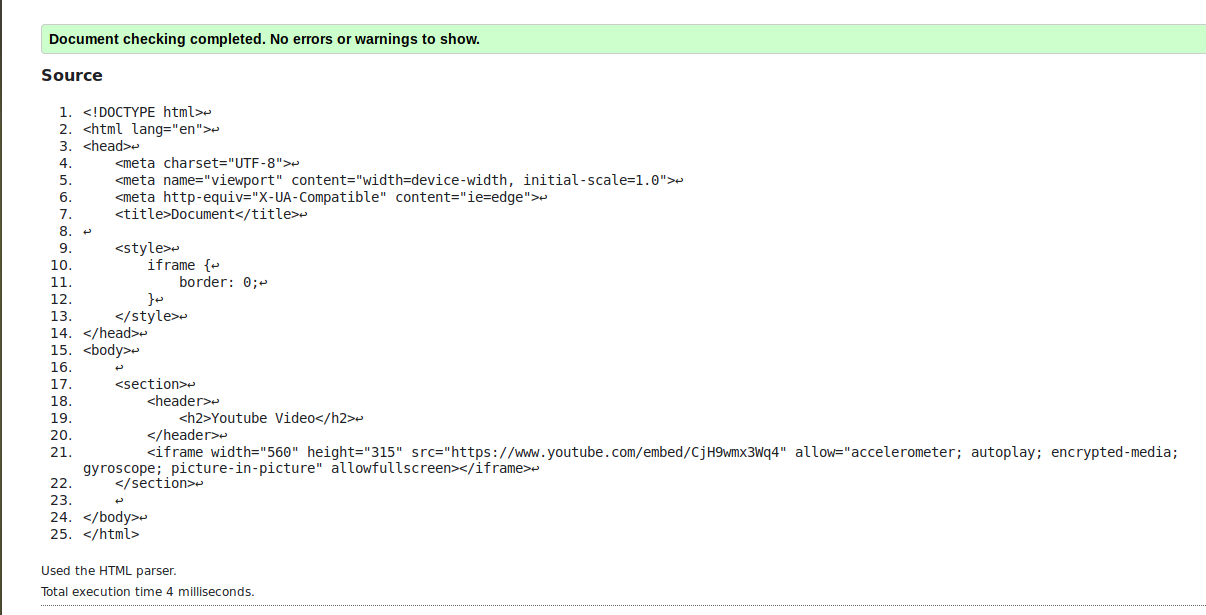
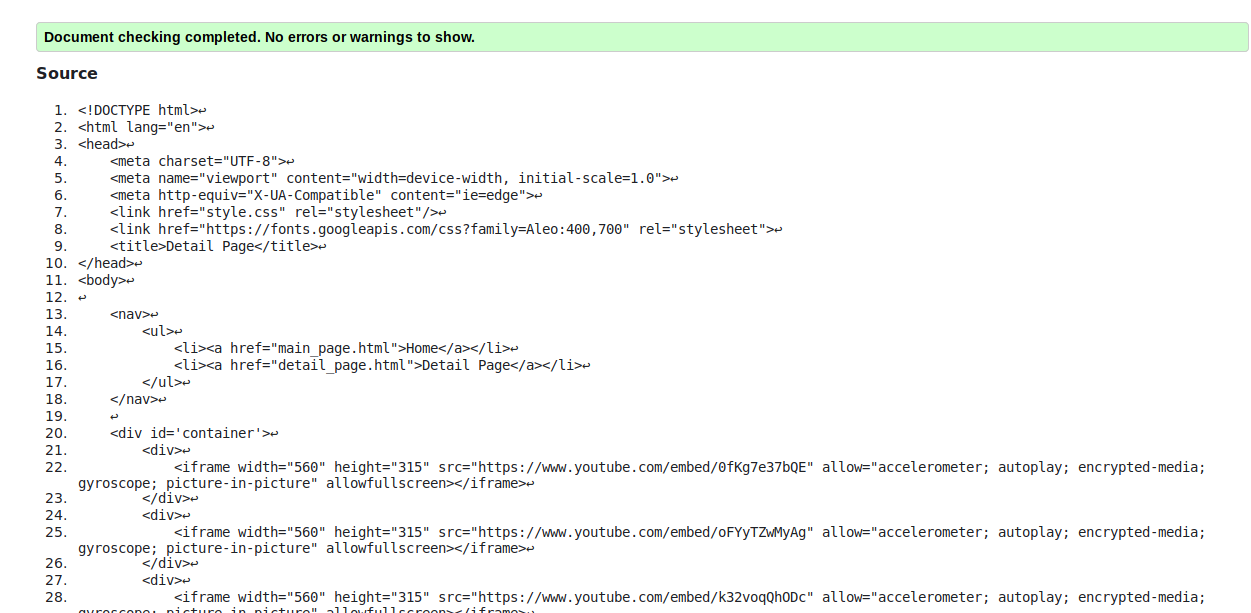
last commit

Changed region(s): [[0.0307, 0.031, 1.0, 1.0]]

diff --git a/Assignment 1 Week 1/detail_page.html b/Assignment 1 Week 1/detail_page.html
@@ -4,22 +4,35 @@
     <meta charset="UTF-8">
     <meta name="viewport" content="width=device-width, initial-scale=1.0">
     <meta http-equiv="X-UA-Compatible" content="ie=edge">
-    <title>Document</title>
-
-    <style>
-        iframe {
-            border: 0;
-        }
-    </style>
+    <link href="style.css" rel="stylesheet"/>
+    <link href="https://fonts.googleapis.com/css?family=Aleo:400,700" rel="stylesheet">
+    <title>Detail Page</title>
 </head>
 <body>
+
+    <nav>
+        <ul>
+            <li><a href="main_page.html">Home</a></li>
+            <li><a href="detail_page.html">Detail Page</a></li>
+        </ul>
+    </nav>
     
-    <section>
-        <header>
-            <h2>Youtube Video</h2>
-        </header>
-        <iframe width="560" height="315" src="https://www.youtube.com/embed/CjH9wmx3Wq4" allow="accelerometer; autoplay; encrypted-media; gyroscope; picture-in-picture" allowfullscreen></iframe>
-    </section>
-    
+    <div id='container'>
+        <div>
+            <iframe width="560" height="315" src="https://www.youtube.com/embed/0fKg7e37bQE" allow="accelerometer; autoplay; encrypted-media; gyroscope; picture-in-picture" allowfullscreen></iframe>
+        </div>
+        <div>
+            <iframe width="560" height="315" src="https://www.youtube.com/embed/oFYyTZwMyAg" allow="accelerometer; autoplay; encrypted-media; gyroscope; picture-in-picture" allowfullscreen></iframe>
+        </div>
+        <div>
+            <iframe width="560" height="315" src="https://www.youtube.com/embed/k32voqQhODc" allow="accelerometer; autoplay; encrypted-media; gyroscope; picture-in-picture" allowfullscreen></iframe>
+        </div>
+        <div>
+            <iframe width="560" height="315" src="https://www.youtube.com/embed/jV8B24rSN5o" allow="accelerometer; autoplay; encrypted-media; gyroscope; picture-in-picture" allowfullscreen></iframe>
+        </div>
+    </div>
+
+    <footer class="detail_footer"><p>@PADC</p></footer>
+        
 </body>
 </html>

diff --git a/Assignment 1 Week 1/style.css b/Assignment 1 Week 1/style.css
@@ -1,0 +1,62 @@
+iframe {
+    border: 0;
+}
+
+nav {
+    background-color: #000;
+    position: fixed;
+    top: 0px;
+    left: 0px;
+    width: 100%;
+    font-family: 'Aleo', serif;
+    font-weight: bold;
+    font-size: 20px;
+}
+
+nav li {
+    display: inline;
+    margin: 10px;
+}
+
+nav a {
+    text-decoration: none;
+    color: #5a9650;
+}
+
+
+#container {
+    display: flex;
+    justify-content: space-evenly;
+    align-content: space-around;
+    flex-flow: row wrap;
+    margin: 80px auto 0 auto;
+    background-color: green;
+    padding: 1em;
+}
+
+footer {
+    position: fixed;
+    bottom: 0px;
+    left: 0px;
+    width: 90%;
+    height: 30px;
+    margin: 0 0 0 5%;
+    background-color: #000;
+    color: #eee;
+    display: flex;
+}
+
+.detail_footer {
+    /* position: absolute; */
+    position: relative;
+    bottom: 0;
+    margin: 10px 0 0 5%;
+    background-color: #000;
+    color: #eee;
+    width: 90%;
+}
+
+footer p {
+    margin: auto;
+}
+

diff --git a/Assignment 1 Week 1/main_page.html b/Assignment 1 Week 1/main_page.html
@@ -4,21 +4,19 @@
     <meta charset="UTF-8">
     <meta name="viewport" content="width=device-width, initial-scale=1.0">
     <meta http-equiv="X-UA-Compatible" content="ie=edge">
+    <link href="style.css" rel="stylesheet"/>
+    <link href="https://fonts.googleapis.com/css?family=Aleo:400,700" rel="stylesheet">
     <title>Main Page</title>
 </head>
 <body>
+
+    <nav>
+         <ul>
+            <li><a href="main_page.html">Home</a></li>
+            <li><a href="detail_page.html">Detail Page</a></li>
+        </ul>
+    </nav>
     
-    <section id="side-menu">
-        <header>
-            <h2>Side Menu</h2>
-        </header>
-        <nav>
-            <ul>
-                <li><a href="detail_page.html">Detail Page</a></li>
-            </ul>
-        </nav>
-    </section>
-    
-    <footer>Footer</footer>
+    <footer><p>@PADC</p></footer>
 </body>
 </html>
